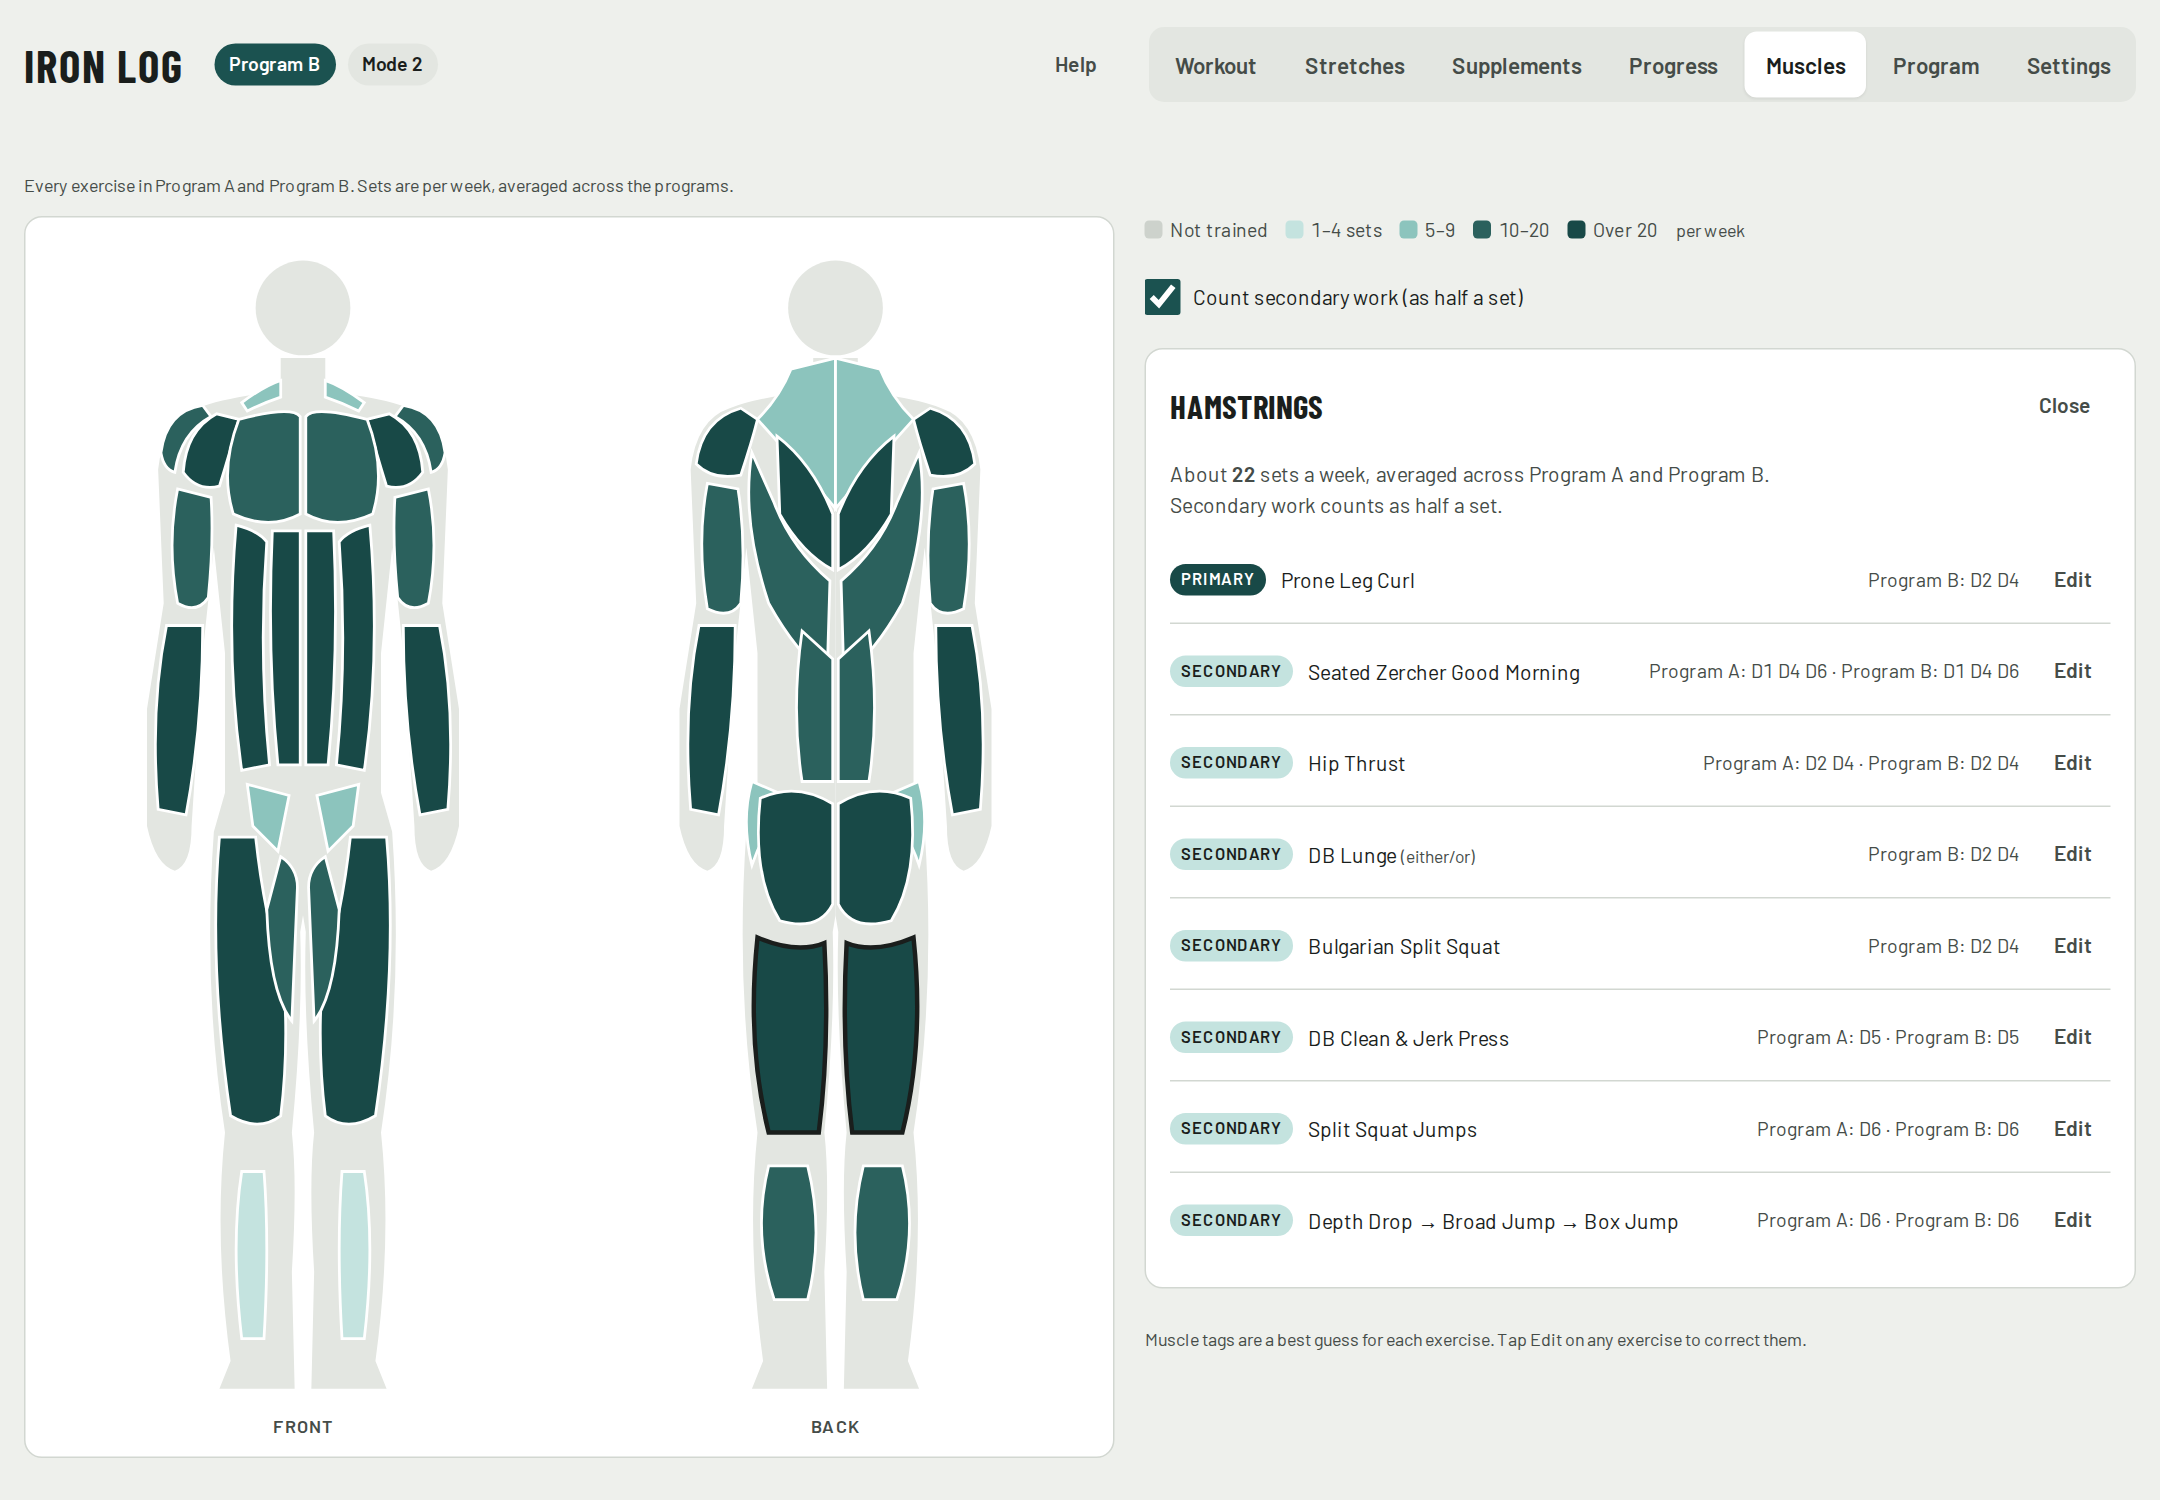
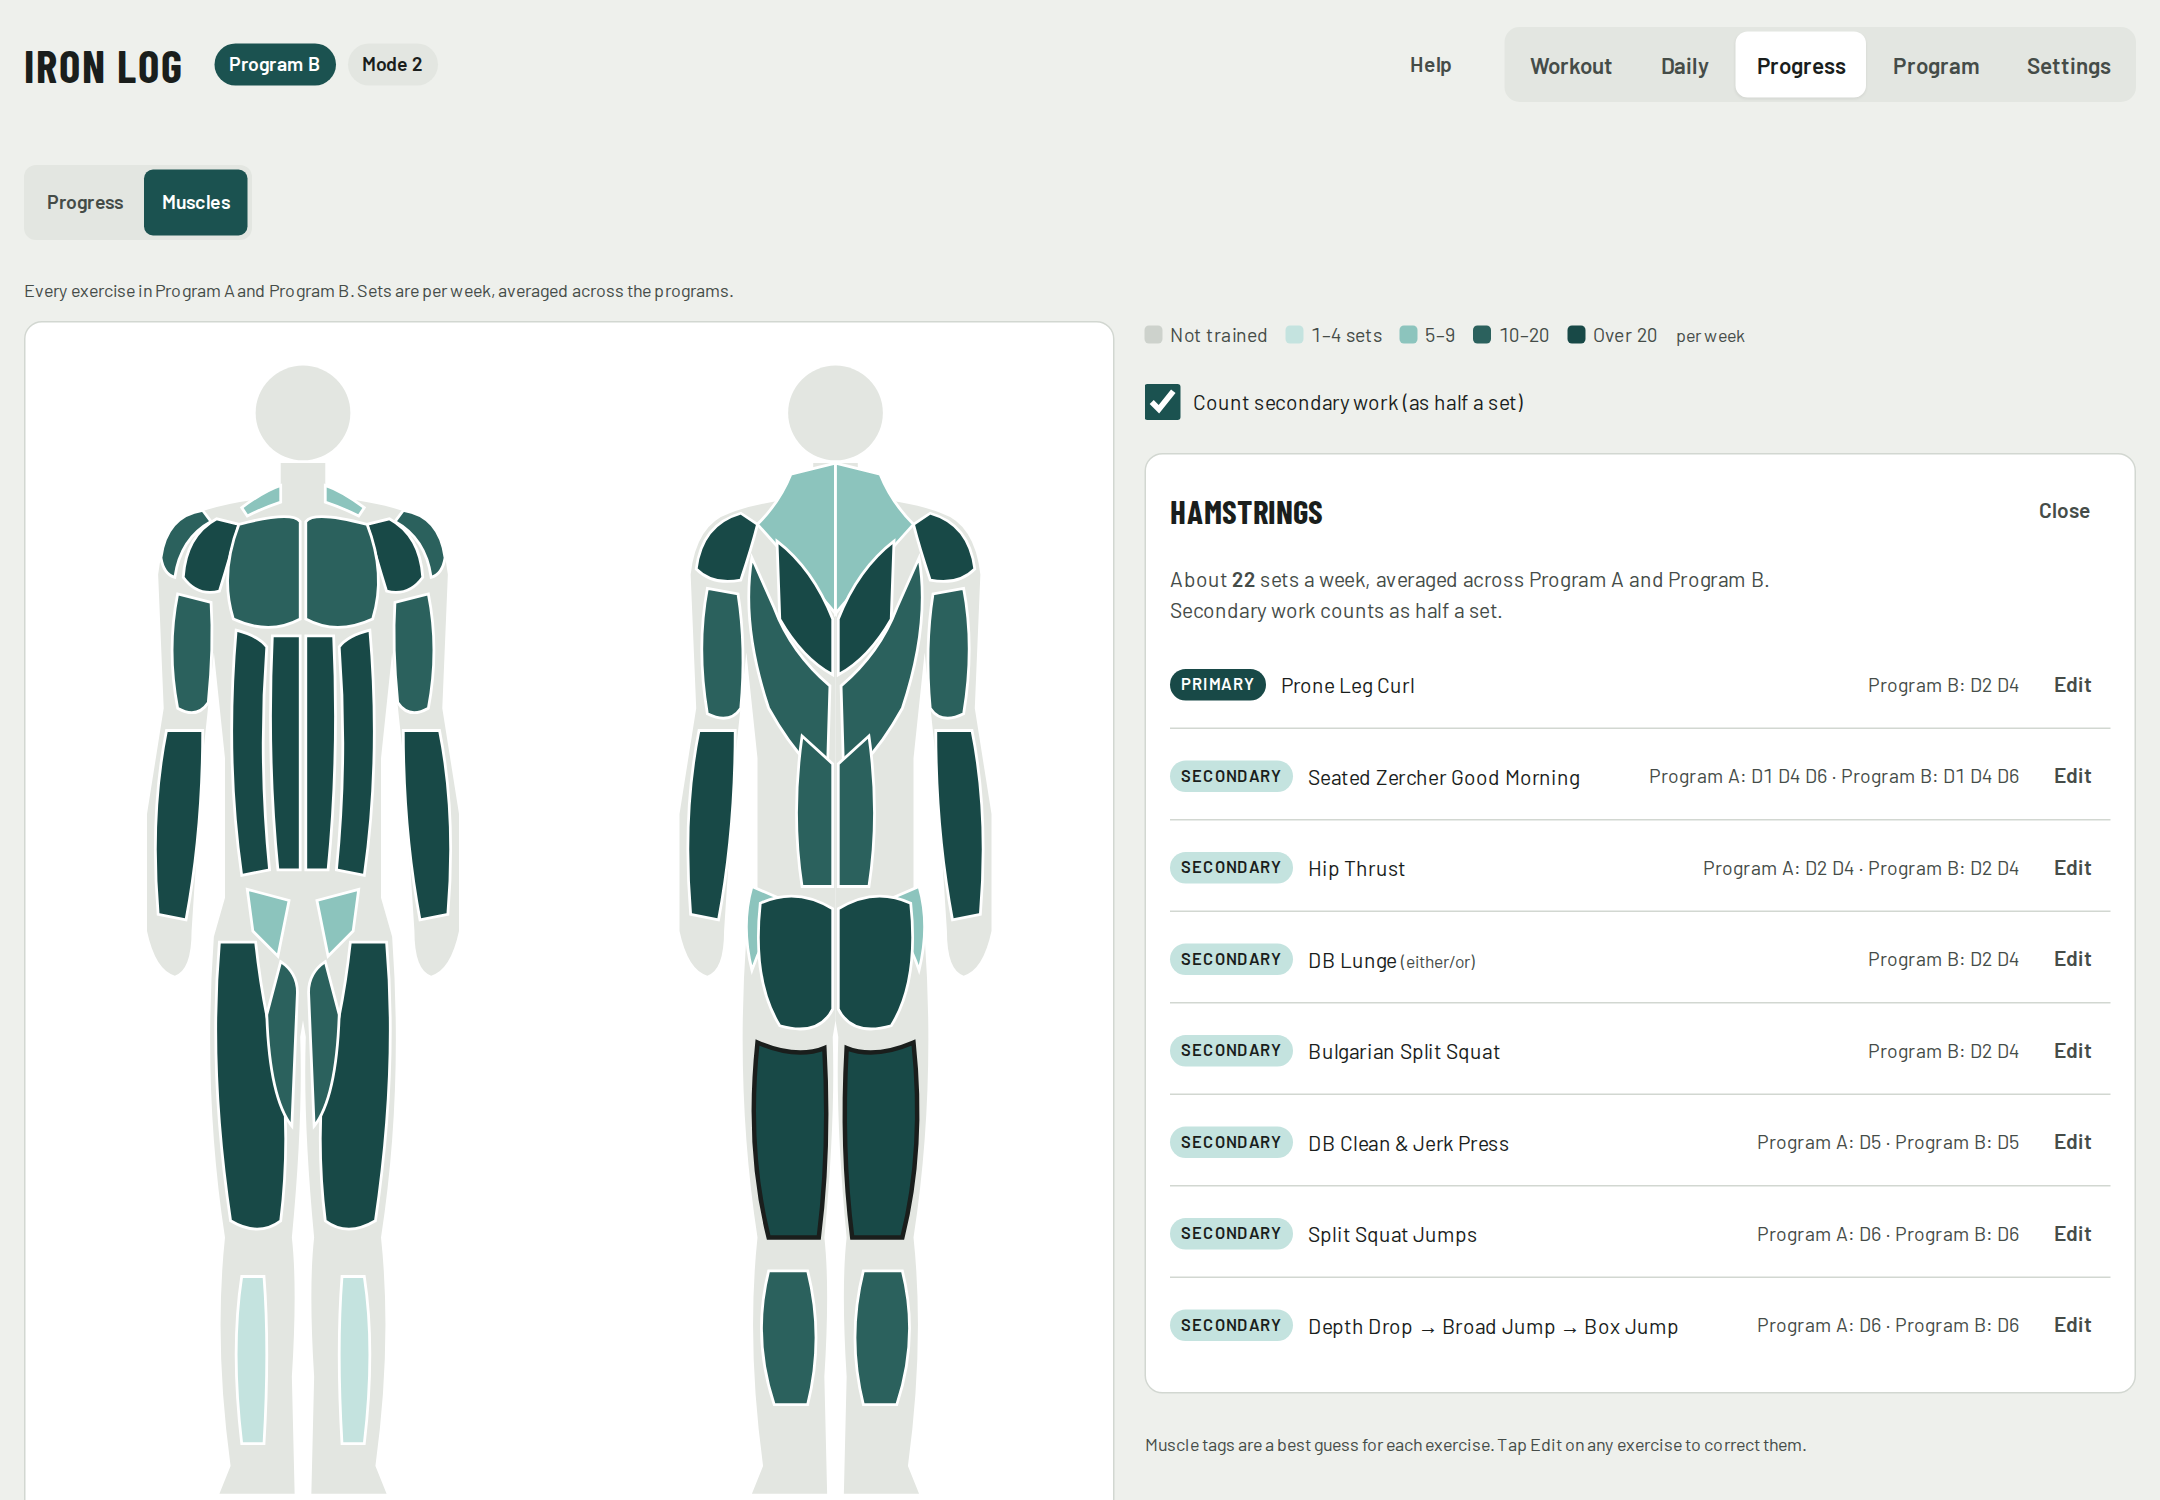
Group Stretches, Supplements and Medical under a Daily tab (#63)
* Group Stretches, Supplements and Medical under a Daily tab; Muscles moves into Progress

The phone bar is back to five tabs in one row.

* Open Muscles from Progress in the screenshot script

* Update README screenshots

---------

diff --git a/e2e/a11y.spec.js b/e2e/a11y.spec.js
@@ -3,9 +3,13 @@ import { test, expect } from './fixtures.js';
 
 const scan = page => new AxeBuilder({ page }).withTags(['wcag2a', 'wcag2aa', 'wcag21a', 'wcag21aa']).analyze();
 
-for (const [name, tab] of [['board', null], ['stretches', '#tab-stretches'], ['supplements', '#tab-supplements'], ['progress', '#tab-progress'], ['program editor', '#tab-program'], ['body', '#tab-body']]) {
+// Each view is reached by clicking these in order.
+for (const [name, clicks] of [
+  ['workout', []], ['stretches', ['#tab-daily']], ['supplements', ['#tab-daily', '#daily-supplements']], ['medical', ['#tab-daily', '#daily-medical']],
+  ['progress', ['#tab-progress']], ['muscles', ['#tab-progress', '#prog-muscles']], ['program editor', ['#tab-program']],
+]) {
   test(`${name} has no accessibility violations`, async ({ page }) => {
-    if (tab) { await page.click(tab); await page.waitForTimeout(300); }
+    for (const c of clicks) { await page.click(c); await page.waitForTimeout(300); }
     const { violations } = await scan(page);
     expect(violations.map(v => `${v.id}: ${v.nodes.map(n => n.target.join(' ')).slice(0, 3).join(', ')}`)).toEqual([]);
   });
@@ -19,10 +23,10 @@ test('stretch library has no accessibility violations', async ({ page }) => {
 });
 
 test('ticking a stretch and logging water both stick', async ({ page }) => {
-  await page.click('#tab-stretches');
+  await page.click('#tab-daily');
   await page.locator('#sday-4').check();
   await expect(page.locator('#sday-4')).toBeChecked();
-  await page.click('#tab-supplements');
+  await page.click('#daily-supplements');
   await page.click('#water-16\\.9');
   await expect(page.getByRole('status').filter({ hasText: '16.9' }).first()).toBeVisible();
 });
@@ -36,6 +40,7 @@ test('supplement library has no accessibility violations', async ({ page }) => {
   await expect(page.getByText('Vitamin D3')).toBeVisible();
   const { violations } = await scan(page);
   expect(violations.map(v => `${v.id}: ${v.nodes.map(n => n.target.join(' ')).slice(0, 3).join(', ')}`)).toEqual([]);
-  await page.click('#tab-supplements');
+  await page.click('#tab-daily');
+  await page.click('#daily-supplements');
   await expect(page.getByLabel('Vitamin D3')).toBeVisible();
 });

diff --git a/src/components/progress/Progress.jsx b/src/components/progress/Progress.jsx
@@ -6,6 +6,7 @@ import { monday, ymd, parseDate, addDays, fmtShort } from '../../lib/dates.js';
 import { describe, lastLog, stallOf } from '../../lib/logic.js';
 import { WEEK_RE, WEEK_GOAL_DAYS, weekSummary } from '../../lib/trends.js';
 import Trends from './Trends.jsx';
+import Muscles from '../muscles/Muscles.jsx';
 import LineChart from '../LineChart.jsx';
 import { liftGoalsStatus, liftGoalNote } from '../../lib/liftGoal.js';
 
@@ -111,7 +112,7 @@ function LiftList() {
   );
 }
 
-export default function Progress() {
+function ProgressMain() {
   const weekHist = useAppStore(s => s.weekHist); const loading = useAppStore(s => s.historyLoading);
   const loadHistory = useAppStore(s => s.loadHistory);
   const storeMode = useAppStore(s => s.storeMode); // history waits until the data source is known
@@ -122,6 +123,22 @@ export default function Progress() {
       <History />
       <ExportBar />
       <LiftList />
+    </>
+  );
+}
+
+// Progress, with the muscle map one switch away.
+export default function Progress() {
+  const view = useAppStore(s => s.progView); const setProgView = useAppStore(s => s.setProgView);
+  return (
+    <>
+      <div className="edtop">
+        <div className="seg" role="group" aria-label="Progress section">
+          <button type="button" id="prog-trends" className={view === 'trends' ? 'on' : ''} aria-pressed={view === 'trends'} onClick={() => setProgView('trends')}>Progress</button>
+          <button type="button" id="prog-muscles" className={view === 'muscles' ? 'on' : ''} aria-pressed={view === 'muscles'} onClick={() => setProgView('muscles')}>Muscles</button>
+        </div>
+      </div>
+      {view === 'muscles' ? <Muscles /> : <ProgressMain />}
     </>
   );
 }

diff --git a/src/components/sheets/HelpSheet.jsx b/src/components/sheets/HelpSheet.jsx
@@ -46,8 +46,8 @@ export default function HelpSheet() {
           <li><b>Log.</b> Press Log on an exercise to record the weight and reps of each set. Same as last copies your previous session.</li>
           <li><b>Targets.</b> The weight shown on each exercise is a suggestion. It goes up when you complete all your sets two sessions in a row.</li>
           <li><b>Move or skip.</b> If equipment is busy, use Move to put an exercise on another day, or Skip to leave it out this week.</li>
-          <li><b>Stretches</b> is a daily stretch routine laid out like the Workout week: tick each stretch, add one to try from Experiments. Edit the routine in Program, Stretch library. <b>Supplements</b> logs the water you drink, by cup or bottle size, against a daily goal.</li>
-          <li><b>Progress</b> shows your trends, <b>Muscles</b> shows which muscles your plan trains, <b>Program</b> lets you change the plan, and <b>Settings</b> holds your 1RMs, backups and display options.</li>
+          <li><b>Daily</b> holds what you do every day. <b>Stretches</b> is a stretch routine laid out like the Workout week: tick each stretch, add one to try from Experiments. <b>Supplements</b> is your Morning, Noon and Night list plus a water log. <b>Medical</b> is coming. Edit the lists in Program.</li>
+          <li><b>Progress</b> shows your trends, <b>Muscles</b>, one switch away on the Progress tab, shows which muscles your plan trains, <b>Program</b> lets you change the plan, and <b>Settings</b> holds your 1RMs, backups and display options.</li>
         </ol>
       </section>
       <section aria-labelledby="help-words">

diff --git a/src/App.jsx b/src/App.jsx
@@ -4,10 +4,8 @@ import { progName } from './lib/logic.js';
 import useTooltips from './hooks/useTooltips.js';
 import useFocusKeeper from './hooks/useFocusKeeper.js';
 import Board from './components/board/Board.jsx';
-import Stretches from './components/stretches/Stretches.jsx';
-import Supplements from './components/supplements/Supplements.jsx';
+import Daily from './components/daily/Daily.jsx';
 import Progress from './components/progress/Progress.jsx';
-import Muscles from './components/muscles/Muscles.jsx';
 import Editor from './components/program/Editor.jsx';
 import Settings from './components/settings/Settings.jsx';
 import TimerBar from './components/TimerBar.jsx';
@@ -25,7 +23,7 @@ import ImportSheet from './components/sheets/ImportSheet.jsx';
 import HelpSheet from './components/sheets/HelpSheet.jsx';
 import UpdateBanner from './components/UpdateBanner.jsx';
 
-const TABS = [['board', 'Workout', Board], ['stretches', 'Stretches', Stretches], ['supplements', 'Supplements', Supplements], ['progress', 'Progress', Progress], ['body', 'Muscles', Muscles], ['program', 'Program', Editor], ['settings', 'Settings', Settings]];
+const TABS = [['board', 'Workout', Board], ['daily', 'Daily', Daily], ['progress', 'Progress', Progress], ['program', 'Program', Editor], ['settings', 'Settings', Settings]];
 
 function Modal() {
   const modal = useAppStore(s => s.modal);

diff --git a/src/components/daily/Daily.jsx b/src/components/daily/Daily.jsx
@@ -1,0 +1,23 @@
+import { useAppStore } from '../../store/useAppStore.js';
+import Stretches from '../stretches/Stretches.jsx';
+import Supplements from '../supplements/Supplements.jsx';
+import Medical from './Medical.jsx';
+
+// The things you check off or log every day, under one tab. Add a section by adding a row here.
+const DAILY = [['stretches', 'Stretches', Stretches], ['supplements', 'Supplements', Supplements], ['medical', 'Medical', Medical]];
+
+export default function Daily() {
+  const view = useAppStore(s => s.dailyView);
+  const setDailyView = useAppStore(s => s.setDailyView);
+  const View = (DAILY.find(([k]) => k === view) || DAILY[0])[2];
+  return (
+    <>
+      <div className="edtop">
+        <div className="seg" role="group" aria-label="Daily section">
+          {DAILY.map(([k, l]) => <button type="button" key={k} id={`daily-${k}`} className={view === k ? 'on' : ''} aria-pressed={view === k} onClick={() => setDailyView(k)}>{l}</button>)}
+        </div>
+      </div>
+      <View />
+    </>
+  );
+}

diff --git a/src/styles.css b/src/styles.css
@@ -395,14 +395,12 @@ body.timing{padding-bottom:130px}
 .tbl td:first-child{min-width:110px}
 @media (prefers-reduced-motion:reduce){*{transition:none!important}}
 @media (max-width:700px){
-  :root{--tabbar:105px}
+  :root{--tabbar:58px}
   body{padding-bottom:calc(var(--tabbar) + 72px + env(safe-area-inset-bottom, 0px))}
   header.top{padding-block:12px 6px;gap:8px 12px}
   header.top h1{font-size:24px}
   .tabs{position:fixed;left:0;right:0;bottom:0;margin:0;border-radius:0;z-index:15;padding:6px 8px calc(6px + env(safe-area-inset-bottom, 0px));background:var(--surface);border-top:1px solid var(--line);justify-content:space-around}
-  .tabs .tablist{display:grid;grid-template-columns:repeat(4,minmax(0,1fr));gap:4px}
-  .tabs button{padding:10px 2px;font-size:13px;min-width:0}
-  @media (max-width:340px){.tabs button{font-size:11.5px;padding-inline:0}}
+  .tabs button{flex:1;padding:10px 0;font-size:13.5px;min-width:0}
   .weekbar{gap:8px}
   .weeknav h2{min-width:0;font-size:20px}
   .progress{width:100%}

diff --git a/src/store/wellnessSlice.js b/src/store/wellnessSlice.js
@@ -14,6 +14,9 @@ export const wellnessSlice = (set, get, flag) => ({
   strWeek: normStretchWeek(null), // the viewed week's check-offs
   supp: normSupplements(null), // {waterGoal, water: {date: [oz]}}
 
+  dailyView: 'stretches', // which section of the Daily tab is open
+  setDailyView: dailyView => set({ dailyView }),
+
   saveStretches() { get().saveDoc('stretches/main', { items: get().stretches, experiments: get().stretchExps }); },
   saveStrWeek() { get().saveDoc('stretchweeks/' + get().weekKey(), get().strWeek); },
   saveSupp() { get().saveDoc('supplements/main', get().supp); },

diff --git a/src/lib/viewState.test.js b/src/lib/viewState.test.js
@@ -13,8 +13,8 @@ describe('view state', () => {
     expect(loadView('2026-10-02')).toEqual({ tab: 'progress', mDay: 3 });
   });
   it('drops the phone day on a later day but keeps the tab', () => {
-    saveView('2026-10-02', { tab: 'body', mDay: 3 });
-    expect(loadView('2026-10-03')).toEqual({ tab: 'body' });
+    saveView('2026-10-02', { tab: 'daily', mDay: 3 });
+    expect(loadView('2026-10-03')).toEqual({ tab: 'daily' });
   });
   it('ignores junk and missing storage', () => {
     store['ironlog-view'] = '{"tab":"nope","mDay":99,"day":"x"}';

diff --git a/src/store/useAppStore.js b/src/store/useAppStore.js
@@ -130,6 +130,8 @@ export const useAppStore = create((set, get) => ({
   ghToken: standalone ? readToken() : '',
 
   // Muscles tab view state; kept here so it survives switching tabs, like the original.
+  progView: 'trends', // Progress tab: 'trends' or 'muscles'
+  setProgView: progView => set({ progView }),
   bodySel: null, // selected muscle key
   bodySec: true, // count secondary work as half a set
   selectMuscle: bodySel => set({ bodySel }),

diff --git a/src/lib/viewState.js b/src/lib/viewState.js
@@ -1,7 +1,7 @@
 // Where you were in the app, kept for this browser tab only so a refresh puts you back. A fresh
 // open starts clean (board, current week). The week itself is never kept: it always opens on today's.
 const KEY = 'ironlog-view';
-const TABS = ['board', 'stretches', 'supplements', 'progress', 'body', 'program', 'settings'];
+const TABS = ['board', 'daily', 'progress', 'program', 'settings'];
 
 export function loadView(day) {
   try {

diff --git a/src/components/daily/Medical.jsx b/src/components/daily/Medical.jsx
@@ -1,0 +1,9 @@
+// Medical data will live here. Nothing is stored yet; the layout is decided once there is something to track.
+export default function Medical() {
+  return (
+    <section className="panel" aria-labelledby="med-h">
+      <h2 id="med-h" tabIndex={-1}>Medical</h2>
+      <p className="note">Nothing here yet. This is where medical data you track day to day will go.</p>
+    </section>
+  );
+}
